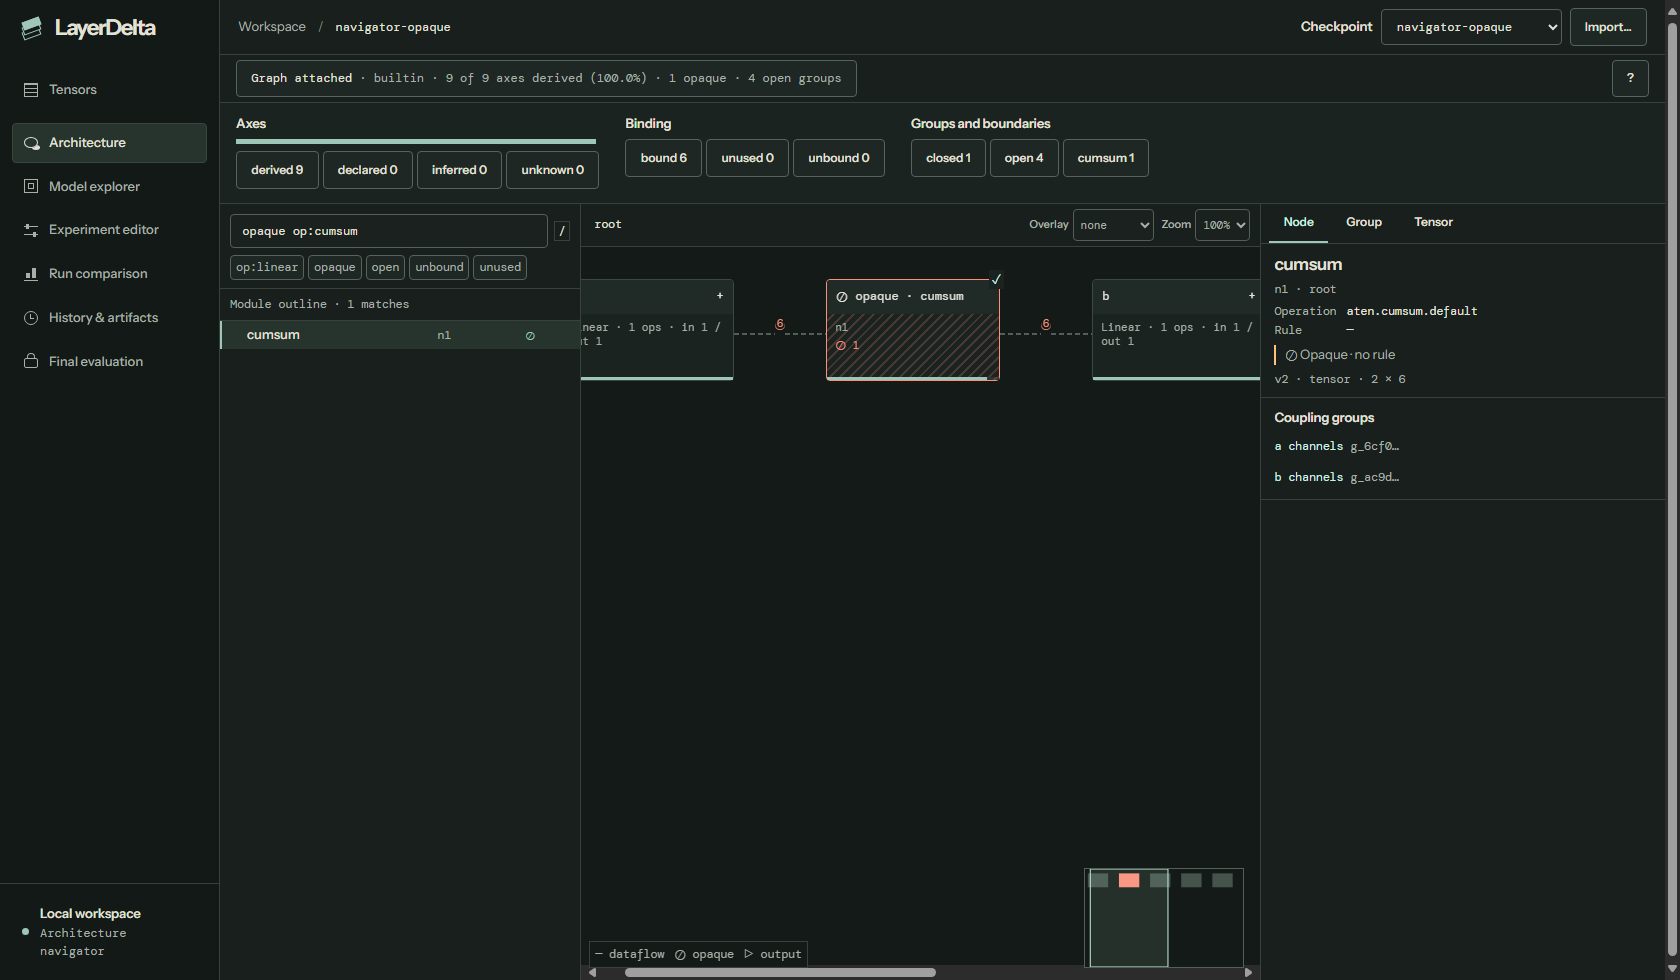
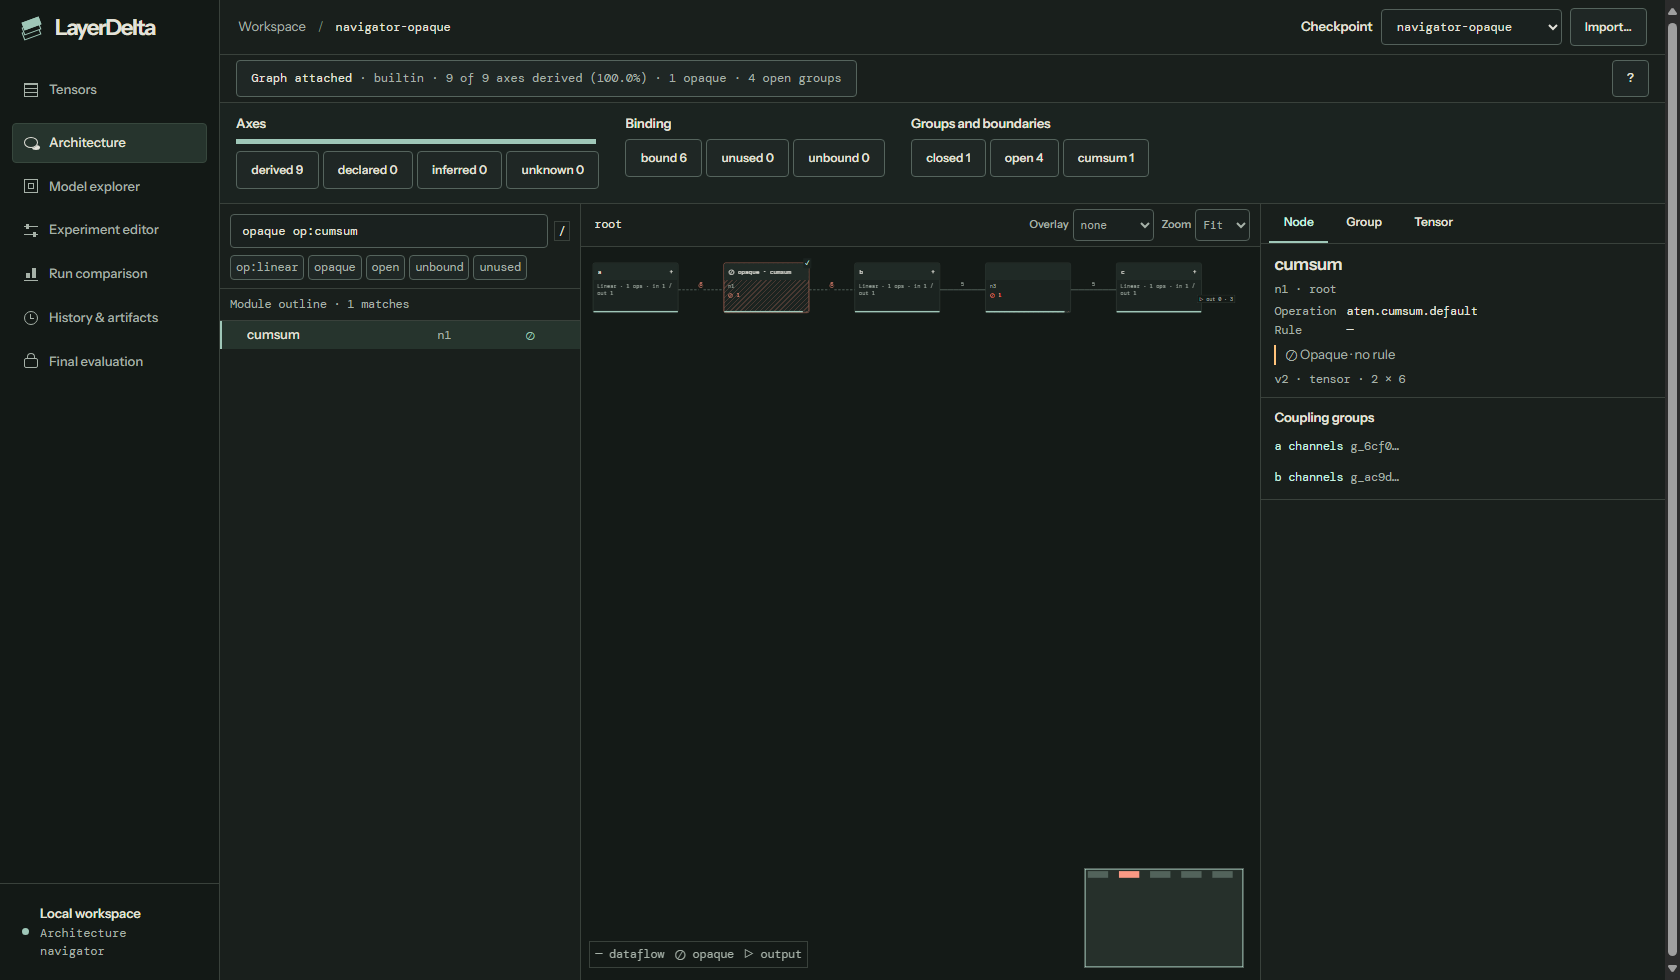
Fit graph scopes and frame coupling members

diff --git a/desktop/src/NavigatorCanvas.tsx b/desktop/src/NavigatorCanvas.tsx
@@ -1,9 +1,11 @@
 import {useEffect, useMemo, useRef, useState} from "react";
 import type {Group, NavigatorData, NodeDetail} from "./navigatorSource";
-import {axisTotal, layoutGraph, parentPath, roleNode, shortOp, tail, under, valueRefs} from "./navigatorModel";
+import {axisTotal, graphBounds, layoutGraph, parentPath, roleNode, shortOp, tail, under, valueRefs} from "./navigatorModel";
 
 export type Overlay = "none" | "coverage" | "group" | "binding";
 export const overlays: Overlay[] = ["none", "coverage", "group", "binding"];
+type Zoom = "fit" | "group" | "group-all" | number;
+const groupMargin = 24;
 
 export function NavigatorCanvas({data, details, scope, expanded, selection, group, members, overlay, matching, searching, unit, showDetails, connectionsReady,
   onSelect, onScope, onExpand, onOverlay}: {
@@ -16,7 +18,10 @@ export function NavigatorCanvas({data, details, scope, expanded, selection, grou
   const [area, setArea] = useState({x: 0, y: 0, width: 0, height: 0});
   const currentBox = layout.boxes.find(box => box.id === selection);
   const [focused, setFocused] = useState(false);
-  const [zoom, setZoom] = useState(1);
+  const zoomContext = JSON.stringify([scope, group?.group_id]);
+  const [zoomChoice, setZoomChoice] = useState<{context: string; mode: Zoom}>();
+  const mode = zoomChoice?.context === zoomContext ? zoomChoice.mode : group ? "group" : "fit";
+  const chooseZoom = (next: Zoom) => setZoomChoice({context: zoomContext, mode: next});
   const modules = useMemo(() => new Map(data.modules.map(m => [m.path, m])), [data.modules]);
   const tensors = useMemo(() => new Map(data.tensors.map(t => [t.name, t])), [data.tensors]);
   const values = useMemo(() => new Map(data.nodes.flatMap(n => n.outputs.map(out => [out.value, out] as const))), [data.nodes]);
@@ -58,6 +63,21 @@ export function NavigatorCanvas({data, details, scope, expanded, selection, grou
     return box ? [{index, box, width}] : [];
   }) ?? [];
   const portOffset = ports.map(({box}, index) => ports.slice(0, index).filter(port => port.box === box).length);
+  const highlighted = useMemo(() => layout.boxes.filter(box => !box.expanded && box.ids.some(id => members.has(id))), [layout.boxes, members]);
+  const bounds = useMemo(() => graphBounds(highlighted), [highlighted]);
+  const fit = area.width && area.height ? Math.min(1, area.width / layout.width, area.height / layout.height) : 1;
+  const groupFit = bounds && area.width && area.height ?
+    Math.max(.01, Math.min(1, (area.width - 2 * groupMargin) / bounds.w, (area.height - 2 * groupMargin) / bounds.h)) : fit;
+  const zoom = typeof mode === "number" ? mode : mode === "group" ? Math.max(.5, groupFit) : mode === "group-all" ? groupFit : fit;
+  const producer = group?.members.find(member => member.role === "out_unit") ?? group?.members[0];
+  const basis = producer && tensors.get(producer.tensor)?.roles?.find(role => role.axis === producer.axis);
+  const producerNode = basis && roleNode(basis) || (producer && Object.values(details).find(node => node.parameters.includes(producer.tensor))?.id);
+  const producerBox = producerNode ? layout.owners.get(producerNode) ?? highlighted[0] : highlighted[0];
+  const offscreen = mode === "group" && groupFit < .5 ? highlighted.reduce((total, box) => {
+    const fits = box.x * zoom >= area.x - 1 && box.y * zoom >= area.y - 1 &&
+      (box.x + box.w) * zoom <= area.x + area.width + 1 && (box.y + box.h) * zoom <= area.y + area.height + 1;
+    return total + (fits ? 0 : box.ids.filter(id => members.has(id)).length);
+  }, 0) : 0;
   const miniWidth = Math.max(layout.width, area.width / zoom);
   const miniHeight = Math.max(layout.height, area.height / zoom);
   function measure() {
@@ -73,15 +93,17 @@ export function NavigatorCanvas({data, details, scope, expanded, selection, grou
   }, []);
   useEffect(() => {
     const el = viewport.current;
+    if (!el) return;
+    if (mode === "fit") {el.scrollTo(0, 0); return;}
     const tensorNode = selection.startsWith("tensor:") ? tensors.get(selection.slice(7))?.roles?.map(roleNode).find(Boolean) : undefined;
     const owner = layout.owners.get(tensorNode ?? selection.replace(/^node:/, ""));
     const ancestor = selection.startsWith("module:") ? layout.boxes.filter(item => item.scope && under(selection.slice(7), item.scope))
       .sort((a, b) => b.scope!.length - a.scope!.length)[0] : undefined;
-    const highlighted = group && layout.boxes.find(item => !item.expanded && item.ids.some(member => members.has(member)));
-    const box = layout.boxes.find(item => item.id === selection) ?? owner ?? ancestor ?? highlighted;
-    if (el && box) el.scrollTo({left: (box.x + box.w / 2) * zoom - el.clientWidth / 2,
+    const groupFrame = mode === "group-all" || mode === "group" && groupFit >= .5 ? bounds : producerBox;
+    const box = group ? groupFrame : layout.boxes.find(item => item.id === selection) ?? owner ?? ancestor;
+    if (box) el.scrollTo({left: (box.x + box.w / 2) * zoom - el.clientWidth / 2,
       top: (box.y + box.h / 2) * zoom - el.clientHeight / 2});
-  }, [selection, scope, layout.boxes, layout.owners, tensors, zoom, group, members]);
+  }, [selection, scope, layout.boxes, layout.owners, tensors, zoom, group, mode, groupFit, bounds, producerBox]);
   const crumbs = scope ? scope.split(".") : [];
   const boxLabel = (box: typeof layout.boxes[number]) => box.node ? shortOp(box.node.op) : tail(box.scope ?? "");
   const tooMany = layout.boxes.length > 600;
@@ -94,7 +116,11 @@ export function NavigatorCanvas({data, details, scope, expanded, selection, grou
       </nav>
       <label>Overlay <select value={overlay} onChange={e => onOverlay(e.target.value as Overlay)}>
         {overlays.map(value => <option key={value}>{value}</option>)}</select></label>
-      <label className="an-zoom">Zoom <select value={zoom} onChange={e => setZoom(+e.target.value)}>
+      <label className="an-zoom"><span>Zoom</span><select aria-label="Zoom" value={mode} onChange={e => {
+        const value = e.target.value;
+        chooseZoom(value === "fit" || value === "group" || value === "group-all" ? value : Number(value));
+      }}>
+        <option value="fit">Fit</option>{group && <><option value="group">Frame group</option><option value="group-all">Fit group</option></>}
         {[.5, .75, 1, 1.25].map(value => <option key={value} value={value}>{value * 100}%</option>)}</select></label>
     </div>
     <div className="an-map-wrap">
@@ -195,6 +221,8 @@ export function NavigatorCanvas({data, details, scope, expanded, selection, grou
         <rect x={area.x / zoom} y={area.y / zoom} width={area.width / zoom} height={area.height / zoom}
           className="an-mini-viewport" vectorEffect="non-scaling-stroke"/>
       </svg>}
+      {offscreen > 0 && <button className="an-fit-group" type="button" onClick={() => chooseZoom("group-all")}>
+        {offscreen} more {offscreen === 1 ? "member" : "members"} off screen · Fit</button>}
       <div className="an-map-legend"><span>— dataflow</span><span>⊘ opaque</span><span>▷ output</span>{groupActive && <span>■ group</span>}
         {!showDetails && <span>Open a narrower scope to load edges</span>}</div>
       <span className="visually-hidden" aria-live="polite">{focused && currentBox ?

diff --git a/desktop/src/architectureNavigator.css b/desktop/src/architectureNavigator.css
@@ -69,6 +69,8 @@
 .arch-nav .an-breadcrumb button {border: 0; background: none; padding: 2px 3px; font: inherit; color: inherit}
 .an-breadcrumb button[aria-current] {color: var(--an-ink)}
 .an-map-wrap,.an-map-space {position: relative; min-width: 0; min-height: 0}
+.an-map-space {overflow: clip}
+.an-fit-group {position: absolute; z-index: 5; top: 9px; right: 18px; color: var(--grp-hi)}
 .an-viewport {height: 100%; overflow: auto; scrollbar-gutter: stable}
 .an-map {position: absolute; transform-origin: top left}
 .an-edges {position: absolute; inset: 0; pointer-events: none; z-index: 1; overflow: visible}
@@ -156,7 +158,7 @@
 .an-stages {margin: 0; padding-left: 20px; color: var(--an-accent)}
 .an-dialog {background: var(--an-ground); color: var(--an-ink); border: 1px solid var(--an-line); padding: 14px}
 .an-dialog dl {margin: 10px 0}
-@media (max-width: 1250px) {.an-zoom {display: none!important} .an-panes {grid-template-columns: minmax(185px, 27fr) minmax(0, 45fr) minmax(230px, 28fr)}}
+@media (max-width: 1250px) {.an-zoom span {display: none} .an-panes {grid-template-columns: minmax(185px, 27fr) minmax(0, 45fr) minmax(230px, 28fr)}}
 @media (max-width: 1099px) {.an-minimap {display: none} .an-context .context-title > :not(strong) {display: none}}
 @media (max-width: 850px) {
   .arch-nav {height: auto}

diff --git a/desktop/src/navigatorModel.ts b/desktop/src/navigatorModel.ts
@@ -109,6 +109,16 @@ export function outlineMatches(rows: Map<string, Row>, search: string) {
 }
 
 export type Box = {id: string; x: number; y: number; w: number; h: number; scope?: string; ids: string[]; node?: GraphNode; expanded?: boolean};
+
+export function graphBounds(boxes: Pick<Box, "x" | "y" | "w" | "h">[]) {
+  if (!boxes.length) return undefined;
+  let x = Infinity, y = Infinity, right = -Infinity, bottom = -Infinity;
+  for (const box of boxes) {
+    x = Math.min(x, box.x); y = Math.min(y, box.y);
+    right = Math.max(right, box.x + box.w); bottom = Math.max(bottom, box.y + box.h);
+  }
+  return {x, y, w: right - x, h: bottom - y};
+}
 export function layoutGraph(nodes: GraphNode[], details: Record<string, NodeDetail>, scope: string, expanded: Set<string>) {
   const producers = new Map(nodes.flatMap(n => n.outputs.map(output => [output.value, n.id] as const)));
   const edges = nodes.flatMap(node => [...new Set(valueRefs([details[node.id]?.args, Object.values(details[node.id]?.kwargs ?? {})]))]

diff --git a/desktop/src/ArchitectureNavigator.tsx b/desktop/src/ArchitectureNavigator.tsx
@@ -191,7 +191,7 @@ function GraphWorkspace({id, data, openTensor, reference, onAttached}: {id: stri
     setSelection(next);
     if (next.startsWith("group:")) {
       if (next !== selection) setUnit(0);
-      setTab("Group"); setOverlay("group");
+      setTab("Group"); setOverlay("group"); setScope("");
     } else if (next.startsWith("tensor:")) setTab("Tensor");
     else if (next) setTab("Node");
     else {setTab("Group"); setOverlay("none");}
